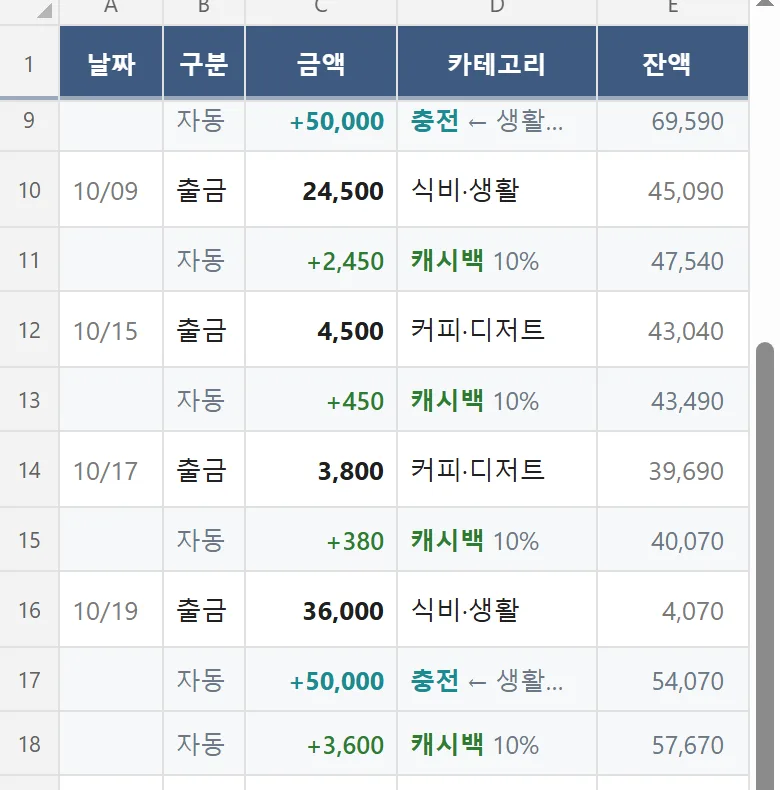
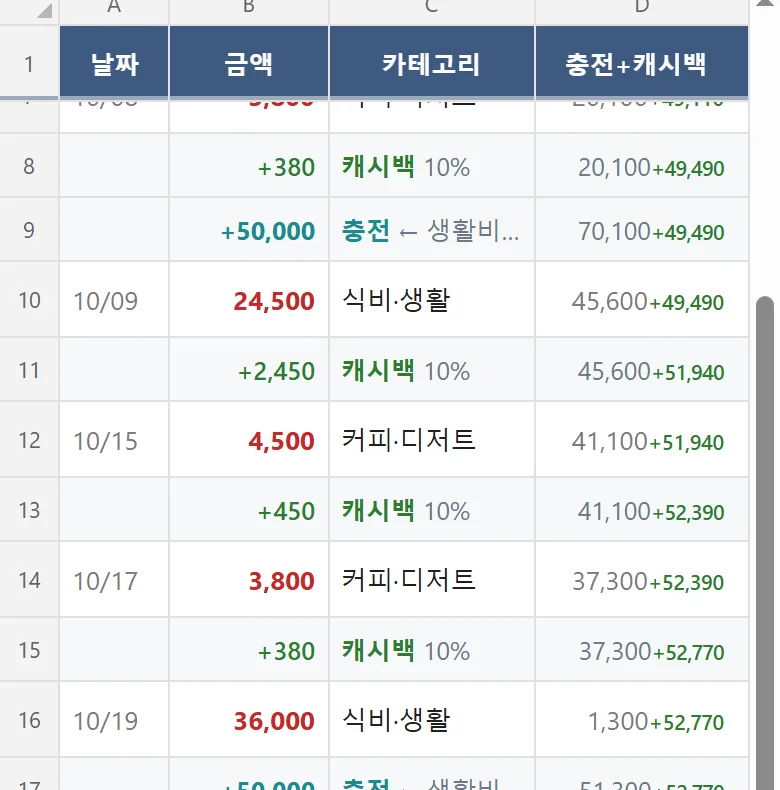
구분 칸 삭제: 금액 색으로 구분 (출금 빨강, 입금 파랑), 숫자판 위에서 출금·입금·이동 선택

diff --git a/js/edit.js b/js/edit.js
@@ -4,7 +4,7 @@
    SHEETS (편집)
    ========================================================= */
 function updTx(id, patch) { commit(() => { const t = txById(id); if (t) { Object.assign(t, patch); touch(t); } }); }
-const refOf = (id, k) => { const C = U.nav?.ks || (U.acct ? ['date', 'type', 'amt', 'cat', 'memo'] : ['date', 'acct', 'type', 'amt', 'cat']); const i = C.indexOf(k); return (i >= 0 ? L(i) : '') + (U.rowNo?.[id] || ''); };
+const refOf = (id, k) => { const C = U.nav?.ks || (U.acct ? ['date', 'amt', 'cat', 'memo'] : ['date', 'acct', 'amt', 'cat']); const i = C.indexOf(k); return (i >= 0 ? L(i) : '') + (U.rowNo?.[id] || ''); };
 
 /* keypad */
 let KP = null;
@@ -29,7 +29,7 @@ function keypad(o) {
   KP = { ...o, ex: o.init == null ? '' : String(o.init) };
   const q = [['+1000', '+1천'], ['+5000', '+5천'], ['+10000', '+1만'], ['+50000', '+5만'], ['C', '지우기']];
   openSheet(`${bh(o.ref || '', o.title || '금액', `${o.prev ? `<button class="btn"${at('kpGo', { d: 'prev' })}>${o.prev}</button>` : ''}<button class="btn pri"${at('kpGo', { d: 'next' })}>${o.next || '완료'}</button>`)}
-    <div class="disp"><div class="ex" id="kpx"></div><div class="res" id="kpr">0</div></div>
+    ${o.top || ''}<div class="disp"><div class="ex" id="kpx"></div><div class="res" id="kpr">0</div></div>
     <div class="quick">${q.map(([k, l]) => `<button${at('kp', { k })}>${l}</button>`).join('')}</div>
     <div class="pad">${['7', '8', '9', '÷', '4', '5', '6', '×', '1', '2', '3', '−', '00', '0', '⌫', '+'].map(k => `<button class="${'÷×−+'.includes(k) ? 'op' : ''}"${at('kp', { k })}>${k}</button>`).join('')}</div>
     ${o.hint ? `<div class="hint">${o.hint}</div>` : ''}`);
@@ -58,13 +58,14 @@ ACT.kpGo = d => {
 };
 function kpTx(id) {
   const t = txById(id); if (!t) return;
-  keypad({ ref: refOf(id, 'amt'), title: '금액', init: t.ex || (t.amt ? String(t.amt) : ''), prev: '◀ 구분', next: t.type === 'move' ? '받는 계좌 ▶' : '카테고리 ▶',
+  const TL = { out: '출금', in: '입금', move: '이동' };
+  keypad({ ref: refOf(id, 'amt'), title: '금액', init: t.ex || (t.amt ? String(t.amt) : ''), next: t.type === 'move' ? '받는 계좌 ▶' : '카테고리 ▶',
+    top: `<div class="seg kpt">${Object.entries(TL).map(([k, l]) => `<button class="${t.type === k ? 'on t-' + k : ''}"${at('kpType', { id, v: k })}>${l}</button>`).join('')}</div>`,
     ok: (v, ex, dir) => {
       const hasOp = /[+\-×÷−]/.test(ex.replace(/^[−-]/, ''));
       updTx(id, { amt: Math.abs(v), ex: hasOp ? ex : '' });
       const t2 = txById(id); if (!t2) return;
       if (dir === 'next') { if (t2.type === 'move') { if (!t2.to) pickTo(id); } else if (!t2.cat) catSheet(id); }
-      else if (dir === 'prev') typeSheet(id);
     } });
 }
 function recentCats(acct, kind) {
@@ -95,11 +96,13 @@ function pickAcct(o) {
 }
 ACT.pickA = d => { const f = SH.pick; closeSheet(); f && f(d.v || null); };
 function pickTo(id) { const t = txById(id); pickAcct({ title: '받는 계좌', sub: '내 계좌로 이동', cur: t.to, exclude: t.acct, onPick: v => v && updTx(id, { to: v }) }); }
-function typeSheet(id) {
-  const t = txById(id); if (!t) return;
-  const lb = { out: '출금 · 돈이 나감', in: '입금 · 돈이 들어옴', move: '이동 · 내 계좌끼리' };
-  openSheet(`${bh(refOf(id, 'type'), '구분')}<div class="acts">${['out', 'in', 'move'].map(k => `<button class="btn${t.type === k ? ' pri' : ''}"${at('setType', { id, v: k })}>${lb[k]}</button>`).join('')}</div>`);
-}
+ACT.kpType = d => { // 숫자판을 연 채로 출금 · 입금 · 이동 바꾸기
+  const t = txById(d.id); if (!t || t.type === d.v) return;
+  const ex = KP.ex, p = { type: d.v };
+  if (d.v !== 'move') p.to = ''; else p.cat = '';
+  if (d.v !== 'move' && t.cat && catOf(t.cat)?.k !== (d.v === 'in' ? 'inc' : 'exp')) p.cat = '';
+  updTx(d.id, p); kpTx(d.id); KP.ex = ex; kpShow();
+};
 ACT.setType = d => {
   const t = txById(d.id); if (!t) return; closeSheet();
   const p = { type: d.v };
@@ -132,7 +135,6 @@ ACT.cell = d => {
   const k = d.k;
   if (k === 'date') dateSheet(r.id);
   else if (k === 'acct') pickAcct({ title: '계좌', cur: r.acct, onPick: v => { if (!v) return; const p = { acct: v }; if (r.to === v) p.to = ''; updTx(r.id, p); } });
-  else if (k === 'type') typeSheet(r.id);
   else if (k === 'amt') kpTx(r.id);
   else if (k === 'cat') r.type === 'move' ? pickAcct({ title: U.acct && r.to === U.acct ? '보낸 계좌' : '받는 계좌', cur: U.acct && r.to === U.acct ? r.acct : r.to, exclude: U.acct && r.to === U.acct ? r.to : r.acct, onPick: v => v && updTx(r.id, U.acct && r.to === U.acct ? { acct: v } : { to: v }) }) : catSheet(r.id);
   else if (k === 'memo') memoSheet(r.id);

diff --git a/js/views.js b/js/views.js
@@ -145,12 +145,12 @@ function vInput() {
   const acc = U.acct ? A(U.acct) : null;
   const showBal = acc && (acc.type === 'prepaid' || U.showBal);
   const C = isWide()
-    ? (acc ? [{ k: 'date', w: 11, l: '날짜' }, { k: 'type', w: 9, l: '구분' }, { k: 'amt', w: 17, l: '금액', n: 1 }, { k: 'cat', w: 23, l: '카테고리' }, ...(showBal ? [{ k: 'bal', w: 16, l: acc.type === 'prepaid' ? '충전금 + 캐시백' : '잔액', n: 1 }] : []), { k: 'memo', w: showBal ? 24 : 40, l: '메모' }]
-      : [{ k: 'date', w: 10, l: '날짜' }, { k: 'acct', w: 17, l: '계좌' }, { k: 'type', w: 8, l: '구분' }, { k: 'amt', w: 15, l: '금액', n: 1 }, { k: 'cat', w: 21, l: '카테고리' }, { k: 'memo', w: 29, l: '메모' }])
+    ? (acc ? [{ k: 'date', w: 12, l: '날짜' }, { k: 'amt', w: 18, l: '금액', n: 1 }, { k: 'cat', w: 26, l: '카테고리' }, ...(showBal ? [{ k: 'bal', w: 18, l: acc.type === 'prepaid' ? '충전금 + 캐시백' : '잔액', n: 1 }] : []), { k: 'memo', w: showBal ? 26 : 44, l: '메모' }]
+      : [{ k: 'date', w: 11, l: '날짜' }, { k: 'acct', w: 18, l: '계좌' }, { k: 'amt', w: 16, l: '금액', n: 1 }, { k: 'cat', w: 23, l: '카테고리' }, { k: 'memo', w: 32, l: '메모' }])
     : acc
-    ? (acc.type === 'prepaid' ? [{ k: 'date', w: 15, l: '날짜' }, { k: 'type', w: 12, l: '구분' }, { k: 'amt', w: 19, l: '금액', n: 1 }, { k: 'cat', w: 25, l: '카테고리' }, { k: 'bal', w: 29, l: '충전+캐시백', n: 1 }]
-      : [{ k: 'date', w: 15, l: '날짜' }, { k: 'type', w: 12, l: '구분' }, { k: 'amt', w: 22, l: '금액', n: 1 }, { k: 'cat', w: 29, l: '카테고리' }, showBal ? { k: 'bal', w: 22, l: '잔액', n: 1 } : { k: 'memo', w: 22, l: '메모' }])
-    : [{ k: 'date', w: 14, l: '날짜' }, { k: 'acct', w: 23, l: '계좌' }, { k: 'type', w: 12, l: '구분' }, { k: 'amt', w: 21, l: '금액', n: 1 }, { k: 'cat', w: 30, l: '카테고리' }];
+    ? (acc.type === 'prepaid' ? [{ k: 'date', w: 16, l: '날짜' }, { k: 'amt', w: 23, l: '금액', n: 1 }, { k: 'cat', w: 30, l: '카테고리' }, { k: 'bal', w: 31, l: '충전+캐시백', n: 1 }]
+      : [{ k: 'date', w: 17, l: '날짜' }, { k: 'amt', w: 25, l: '금액', n: 1 }, { k: 'cat', w: 33, l: '카테고리' }, showBal ? { k: 'bal', w: 25, l: '잔액', n: 1 } : { k: 'memo', w: 25, l: '메모' }])
+    : [{ k: 'date', w: 15, l: '날짜' }, { k: 'acct', w: 25, l: '계좌' }, { k: 'amt', w: 25, l: '금액', n: 1 }, { k: 'cat', w: 35, l: '카테고리' }];
   const list = inputRows();
   for (const c of C) c.on = U.sel?.k === c.k;
   const rows = [{ n: 1, cls: 'frz', cells: C.map(c => ({ v: c.l, c: 'h' + (c.n ? ' num' : '') })) }];
@@ -169,10 +169,9 @@ function vInput() {
     const cells = C.map(c => {
       const sel = on && U.sel.k === c.k;
       let cl = (c.n ? 'num ' : '') + (sel ? 'sel ' : '');
-      if (c.k === 'amt' && !r.auto) cl += r.type === 'in' || (acc && delta(r, acc.id) > 0 && r.type === 'move') ? 'pos b ' : r.type === 'move' ? 'mut ' : 'b ';
-      if (c.k === 'amt' && r.auto) cl += r.auto === 'chg' ? 'chg ' : r.auto === 'cb' ? 'cb ' : '';
-      if (c.k === 'type' && r.type === 'in' && !r.auto) cl += 'pos ';
-      if (c.k === 'type' && r.type === 'move') cl += 'mut ';
+      if (c.k === 'amt') cl += r.auto === 'chg' ? 'chg ' : r.auto === 'cb' ? 'cb ' // 자동 충전 · 캐시백은 원래 색
+        : r.type === 'out' ? 'amo ' : r.type === 'in' ? 'ami ' // 출금 빨강 · 입금 파랑
+        : r.type === 'move' ? (acc && delta(r, acc.id) > 0 ? 'pos b ' : 'mut ') : ''; // 이동은 그대로
       if (c.k === 'date' && !r.auto) cl += 'mut ';
       if (c.k === 'memo' || c.k === 'bal') cl += 'mut ';
       if (ms && ((c.k === 'cat' && (r.type === 'move' ? !r.to : !r.cat)) || (c.k === 'amt' && !(+r.amt)))) cl += 'warn note ';

diff --git a/js/extras.js b/js/extras.js
@@ -130,7 +130,7 @@ const HELP = [
   { t: '컴퓨터·아이패드', p: ['화면이 넓으면 표가 넓게 펼쳐지고, 탭은 아래 시트 탭으로 옮겨요.'],
     ex: [['1 ~ 4, Ctrl+PgUp/PgDn', '탭 이동'], ['/', '빠른 입력 칸으로'], ['방향키, Tab, Home/End, PgUp/PgDn', '셀 이동'], ['Enter, F2', '선택한 셀 고치기'], ['금액 셀에서 숫자', '새 금액 바로 입력'], ['Esc', '선택 풀기'], ['Delete', '선택한 행 삭제'], ['Ctrl+Z / Ctrl+Y', '되돌리기 / 다시 실행'], ['아래 100% 누르기', '확대/축소 비율 고르기']] },
   { t: '고치기와 지우기', img: 'help/row.webp', p: ['셀을 누르면 그 칸만 고칠 수 있어요.', '잔액이 실제와 다르면 계좌 화면의 "잔액 맞추기"에 실제 금액을 적어요. 차액만큼 조정 줄이 생기고 통계에는 안 들어가요.', '줄을 왼쪽으로 밀면 뒤에서 삭제 버튼이 나와요. 컴퓨터에서는 줄을 오른쪽 클릭해요.', '계좌 화면에서는 오른쪽으로 밀거나 계좌별 탭을 한 번 더 누르면 목록으로 돌아가요.', '잘못 눌렀으면 위쪽 ↶로 되돌려요.'] },
-  { t: '자동으로 생기는 행', img: 'help/auto.webp', p: ['구분이 "자동"인 회색 행은 정기 결제, 충전식 카드 충전, 캐시백이에요.', '실제 금액이 다르면 눌러서 금액을 고쳐요.', '캐시백 행을 누르면 그 거래만 비율을 바꾸거나 캐시백을 뺄 수 있어요.', '충전식 계좌의 잔액은 충전금 + 캐시백으로 나눠 보여요. 결제마다 자동으로 쓰려면 기본값 설정 → 기타의 "캐시백 자동 사용"을 켜요. 따로 모으는 경우 "충전+캐시백" 칸을 누르거나 "동백 커피 4500 캐시백으로"처럼 적으면 그 결제에 캐시백을 써요.'] },
+  { t: '자동으로 생기는 행', img: 'help/auto.webp', p: ['회색 행은 자동으로 생긴 정기 결제, 충전식 카드 충전, 캐시백이에요. 금액 색은 출금 빨강, 입금 파랑이에요.', '실제 금액이 다르면 눌러서 금액을 고쳐요.', '캐시백 행을 누르면 그 거래만 비율을 바꾸거나 캐시백을 뺄 수 있어요.', '충전식 계좌의 잔액은 충전금 + 캐시백으로 나눠 보여요. 결제마다 자동으로 쓰려면 기본값 설정 → 기타의 "캐시백 자동 사용"을 켜요. 따로 모으는 경우 "충전+캐시백" 칸을 누르거나 "동백 커피 4500 캐시백으로"처럼 적으면 그 결제에 캐시백을 써요.'] },
   { t: '카드값과 계좌 이동', p: ['카드값 결제, 적금 납입, 투자 계좌 입금은 구분을 "이동"으로 적어요. 지출로 두 번 잡히지 않아요.', '빠른 입력: 생활비통장 → 체크카드 300000'] },
   { t: '결산과 지난달 보기', img: 'help/dash.webp', p: ['달이 바뀌면 입력 탭은 빈 칸으로 시작하고, 맨 위에 지난달 결산이 나와요.', '◀ ▶로 지난달 거래와 요약을 볼 수 있어요.', '카테고리에 월 예산을 넣으면 한눈에 보기에 남은 금액이 나와요.'] },
   { t: '투자', p: ['투자 탭에서 달마다 증권 앱의 평가금액만 넣으면 수익과 수익률이 계산돼요.', '투자 계좌로 보낸 돈은 "이동"으로 적으면 넣은 돈에 자동으로 더해져요.'] },

diff --git a/tests/test.js b/tests/test.js
@@ -324,6 +324,14 @@ loadDemo(cb); cb.U.acct = null; cb.U.sort = 'asc'; cb.U.flt = { p: 'month', t: '
       pt('pointerdown', 40); pt('pointermove', 80); pt('pointermove', 260); pt('pointerup', 260); await new Promise(r => setTimeout(r, 260));
       ok(!cb.U.detail && cb.U.tab === 'accts', 'swipe right goes back to account list');
       A.detail({ v: acc.id }); A.tab({ v: 'accts' }); ok(!cb.U.detail, 'tapping 계좌별 again goes back'); }
+    // 구분 칸 대신 금액 색 · 숫자판에서 출금/입금 바꾸기
+    { loadDemo(cb); cb.U.acct = null; cb.U.flt = { p: 'month', t: 'all', cats: [] }; A.tab({ v: 'input' });
+      ok(![...d.querySelectorAll('#grid tr.frz td')].some(x => x.textContent === '구분'), 'no 구분 column');
+      const o = cb.S.tx.filter(x => x.type === 'out' && x.date.slice(0, 7) === cb.U.month).pop();
+      ok(d.querySelector(`#grid tr[data-id="${o.id}"] td[data-k="amt"]`).classList.contains('amo'), 'expense amount red');
+      A.cell({ id: o.id, k: 'amt' }); ok(d.querySelector('#sheet-root.on .kpt [data-v="in"]'), 'keypad has 출금/입금/이동');
+      A.kpType({ id: o.id, v: 'in' }); ok(cb.S.tx.find(x => x.id === o.id).type === 'in' && d.querySelector('#sheet-root.on #kpr'), 'switch to 입금 keeps keypad open'); A.close({});
+      ok(d.querySelector(`#grid tr[data-id="${o.id}"] td[data-k="amt"]`).classList.contains('ami'), 'income amount blue'); }
     // 잔액 맞추기
     { loadDemo(cb); const bk = cb.S.accounts.find(x => x.name === '생활비통장'), m = cb.util.TODAY().slice(0, 7);
       const b0 = cb.balAt(bk.id, cb.util.TODAY()), st0 = cb.mstats(m);
@@ -377,6 +385,7 @@ function shotsSync(w, d, cb, A) {
   if (s === 'pick') { A.tab({ v: 'input' }); cb.U.acct = card.id; cb.render(); A.pickPill({ m: 'filter' }); }
   if (s === 'filter') { A.tab({ v: 'input' }); cb.U.acct = null; cb.render(); A.flt({}); }
   if (s === 'accts') A.tab({ v: 'accts' });
+  if (s === 'kpt') { A.tab({ v: 'input' }); cb.U.acct = null; cb.render(); const r = cb.S.tx.filter(x => x.type === 'out').pop(); A.cell({ id: r.id, k: 'amt' }); }
   if (s === 'ctx') { A.tab({ v: 'input' }); cb.U.acct = null; cb.render(); const tr = d.querySelectorAll('#grid tr[data-a="cell"]:not(.auto)')[3]; const r = tr.cells[3].getBoundingClientRect(); tr.cells[3].dispatchEvent(new w.MouseEvent('contextmenu', { bubbles: true, cancelable: true, clientX: r.left + 20, clientY: r.top + 10 })); }
   if (s === 'reveal') { A.tab({ v: 'input' }); cb.U.acct = null; cb.render(); const rows = d.querySelectorAll('#grid tr[data-a="cell"]:not(.auto)'); A.cell({ id: rows[rows.length - 1].dataset.id, k: 'amt' }); }
   if (s === 'cbs') { A.tab({ v: 'input' }); cb.U.acct = pp.id; cb.render(); const pay = cb.led().filter(r => r.acct === pp.id && r.type === 'out' && !r.auto).pop(); A.cell({ id: pay.id, k: 'bal' }); }

diff --git a/app.css b/app.css
@@ -5,7 +5,7 @@
   --ink:#202020; --ink2:#444; --muted:#7A7A7A; --muted2:#B5B5B5; --ph:#8FA898;
   --hdr:#F3F3F3; --hdr-txt:#616161; --hdr-on:#D3E8DC;
   --navy:#3D5A80; --navy-lt:#E6ECF3; --sub-txt:#26405F;
-  --pos:#2D7C31; --neg:#C52828; --warn:#F4CCCC; --teal:#1B8A8F; --dan-line:#E9B5B5;
+  --pos:#2D7C31; --neg:#C52828; --blue:#1F5FBF; --warn:#F4CCCC; --teal:#1B8A8F; --dan-line:#E9B5B5;
   --soft:#F1F8F4; --soft2:#EEF5F1; --soft-line:#D6E7DC; --soft-txt:#355E46;
   --auto-bg:#F6F8FA; --auto-txt:#6B7785; --chip:#F2F2F2; --pad:#F4F4F4; --pad-act:#E2E2E2; --pad-op:#E4E4E4;
   --bar:#C9D7E8; --bar-good:#BFE0CB; --bar-prev:#D5DAE0; --bar-warn:#F2D7A0; --bar-over:#F0B4B4; --stk:#EFEFEF;
@@ -20,7 +20,7 @@
   --ink:#E4E7E5; --ink2:#C3C8C4; --muted:#959C97; --muted2:#6E756F; --ph:#7FA790;
   --hdr:#272A28; --hdr-txt:#959C97; --hdr-on:#26432F;
   --navy:#2E4766; --navy-lt:#253244; --sub-txt:#B9CDE6;
-  --pos:#5DC46C; --neg:#FF7B7B; --warn:#4A2626; --teal:#4FC3C8; --dan-line:#7A3A3A;
+  --pos:#5DC46C; --neg:#FF7B7B; --blue:#7AAEFF; --warn:#4A2626; --teal:#4FC3C8; --dan-line:#7A3A3A;
   --soft:#1F2C25; --soft2:#22322A; --soft-line:#30473A; --soft-txt:#9FD4B0;
   --auto-bg:#212624; --auto-txt:#93A39A; --chip:#2B2F2C; --pad:#2A2E2B; --pad-act:#363B37; --pad-op:#323733;
   --bar:#33465E; --bar-good:#2C5A3D; --bar-prev:#3B4148; --bar-warn:#5E4A22; --bar-over:#6A2C2C; --stk:#333734;
@@ -454,3 +454,11 @@ html.wide,html.wide body{background:var(--bg3)}
 .ctx .dan{color:var(--neg)}
 /* 계좌 화면: 옆으로 밀기는 앱이 받음 */
 .dview #grid,.dview .acard,.dview .tb{touch-action:pan-y}
+/* 금액 색: 출금 빨강 · 입금 파랑 */
+.sh td.amo{color:var(--neg)!important;font-weight:700}
+.sh td.ami{color:var(--blue)!important;font-weight:700}
+.auto td.amo,.auto td.ami{font-weight:600}
+/* 숫자판 위 출금 · 입금 · 이동 */
+.kpt{margin:0 14px 10px}
+.kpt button.on.t-out{background:var(--neg);color:#fff}
+.kpt button.on.t-in{background:var(--blue);color:#fff}

diff --git a/sw.js b/sw.js
@@ -1,5 +1,5 @@
 // 오프라인 실행용 서비스 워커 — 앱 파일만 캐시하고, 가계부 데이터는 다루지 않는다.
-const VER = 'cellbook-v9';
+const VER = 'cellbook-v10';
 const SHELL = ['./', './index.html', './app.css', './js/core.js', './js/ui.js', './js/views.js', './js/quick.js', './js/pages.js', './js/extras.js', './js/edit.js', './js/data.js', './js/boot.js', './err.js', './head.js', './config.js', './manifest.webmanifest', './icon.svg', './icon-192.png', './icon-512.png'];
 const FB = 'https://www.gstatic.com/firebasejs/';
 

diff --git a/js/ui.js b/js/ui.js
@@ -1,7 +1,7 @@
 'use strict';
 // 화면 공통: 테마, 화면 높이, 화면 상태, 표 그리기, 아래 창, 위·아래 틀
 /* ---------- 앱 버전 · 화면 테마 · 화면 높이 ---------- */
-const APP_VER = '2026.10.21-13';
+const APP_VER = '2026.10.21-14';
 // 화면 테마: auto(휴대폰 설정 따라감) / light / dark
 const THK = KEY + '.theme';
 const themePref = () => { try { return localStorage.getItem(THK) || 'auto'; } catch (e) { return 'auto'; } };
